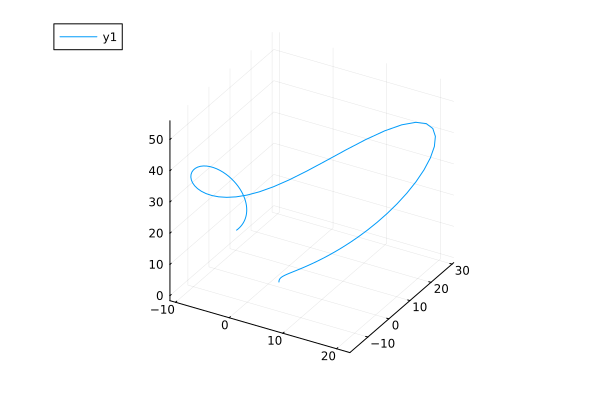
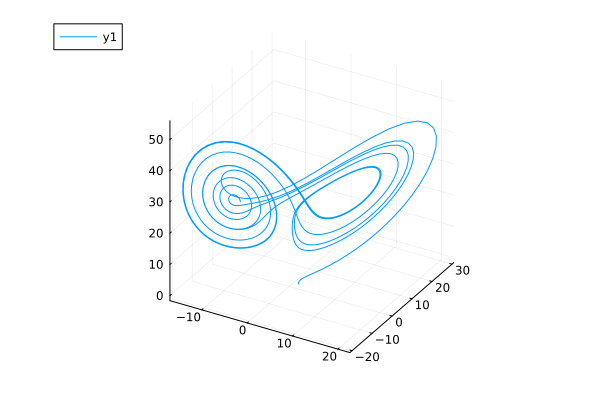
Added benchmark results

diff --git a/README.md b/README.md
@@ -3,40 +3,65 @@ This project aims to explore the use of Julia and CUDA through a practical case 
 
 ## Project Description
 
-We used JuliaGPU (https://juliagpu.org) to run Julia programs on NVIDIA CUDA platforms. 
+I leveraged JuliaGPU (https://juliagpu.org/) to execute Julia programs on NVIDIA CUDA-enabled GPUs. This project tackles the Lorenz system using CUDA on GPUs within the Julia programming environment.
 
-This project aims to solve Lorenz using CUDA on graphical processing units (GPUs) with the Julia programming language.
+*What is Lorenz system?*
+The Lorenz system is used to model certain types of chaotic dynamical systems. In my case study, I utilize a set of three equations, shown below, to simulate the movement of a particle $(x, y, z)$ at each time step. These equations incorporate constants: $dt=0.01, σ=10, ρ=28, β=8/3$. The particle's movement at each step is based on its position in the previous step.
+$$x_{step} = x_{step-1} + σ * (y_{step-1} -x_{step-1}) * dt$$
+$$y_{step} = y_{step-1} + x_{step-1} * (ρ-z_{step-1}) - y_{step-1}$$
+$$z_{step} = z_{step-1} + x_{step-1}*y_{step-1} - β*z$$
 
-Another interesting reference is [Solving PDEs in parallel on GPUs with Julia](https://pde-on-gpu.vaw.ethz.ch/)
+My GPU implementation leverages CUDA.jl (v3.0) (https://juliagpu.org/) to execute the Lorenz system on the GPU. The CUDA kernel computes the positions (x, y, z) for the next step concurrently at each iteration, utilizing the provided three equations.
+
+
+The following presents the results for both CPU and GPU implementations. On the left, you'll see plots of the CPU results. On the right, there's a GIF animation visualizing the GPU results. Notably, both results appear to be consistent.
+<table>
+<tr><td><img src="images/lorenz_cpu.png"></td>
+<td><img src="images/lorenz_gpu.gif"></td></tr>
+</table>
+
+Note, another interesting project is [Solving PDEs in parallel on GPUs with Julia](https://pde-on-gpu.vaw.ethz.ch/)
 link: https://pde-on-gpu.vaw.ethz.ch
 
+## Benchmark results
+This project utilizes CUDA version of the Lorenz system. The hardware platform is an NVIDIA GeForce GTX 1650 GPU with 4 GB memory. Each benchmark executes the GPU kernels 1000 times. The average time and memory usage are then reported below.
+
+
+
+|  STEP    | Average time| Memory Usage|
+| ---------| -------- | ---------- | 
+| 100,000  |  25.7s | 192.75 MiB |
+| 200,000  |  57.5s | 390.57 MiB | 
+| 300,000  |  93.2s | 572.63 MiB |
+| 400,000  | 106.1s | 768.32 MiB |
+| 500,000  | 157.0s | 950.22 MiB | 
+| 600,000  | 166.7s | 1.13 GiB   |
+| 700,000  | 204.9s | 1.31 GiB   |
+| 800,000  | 244.9s | 1.50 GiB   |
+| 900,000  | 260.8s | 1.68 GiB   |
+| 1000,000 | 305.4s | 1.88 GiB   |
+
+
+<table>
+<tr><td><img src="images/memory.png"></td>
+<td><img src="images/average_time.png"></td></tr>
+</table>
+The benchmark results indicate that memory usage increases linearly with the number of steps. Average execution time also increases with steps, exhibiting some fluctuation around 500,000 steps. This indicates the CUDA
 
 
 ## Code Organization
 
-```src/```
+```src/``` This fold stores the source code (`lorenz_cud.jl`) of CUDA and CPU version of Lorenz system. 
+
+```images/```
+This folder contains the output images generated by both the CUDA and CPU versions of the Lorenz system.
+- `lorenz_cpu.png`: PNG image output from the CPU-based Lorenz system.
+- `lorenz_gpu.png`: PNG image output from the CUDA-enabled Lorenz system.
+- `lorenz_gpu.gif`: GIF animation output from the CUDA-enabled Lorenz system.
+- `average_time.png`: PNG image visualizing the average execution time benchmark results for the CUDA-enabled Lorenz system.
+- `memory.png`: PNG image visualizing the memory usage benchmark results for the CUDA-enabled Lorenz system.
 
 
+```README.md``` the description of the project
 
-```bin/```
-This folder should hold all binary/executable code that is built automatically or manually. Executable code should have use the .exe extension or programming language-specific extension.
-
-```data/```
-This folder should hold all example data in any format. If the original data is rather large or can be brought in via scripts, this can be left blank in the respository, so that it doesn't require major downloads when all that is desired is the code/structure.
-
-```lib/```
-Any libraries that are not installed via the Operating System-specific package manager should be placed here, so that it is easier for inclusion/linking.
-
-
-
-```README.md```
-This file should hold the description of the project so that anyone cloning or deciding if they want to clone this repository can understand its purpose to help with their decision.
-
-```INSTALL```
-This file should hold the human-readable set of instructions for installing the code so that it can be executed. If possible it should be organized around different operating systems, so that it can be done by as many people as possible with different constraints.
-
-```Makefile or CMAkeLists.txt or build.sh```
-There should be some rudimentary scripts for building your project's code in an automatic fashion.
-
-```run.sh```
-An optional script used to run your executable code, either with or without command-line arguments.
+```Makefile ``` Makefile of project code 
